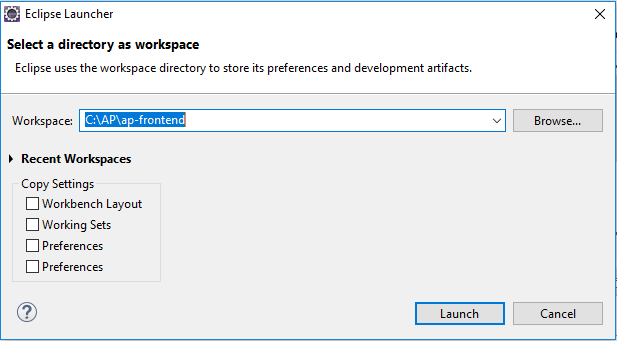
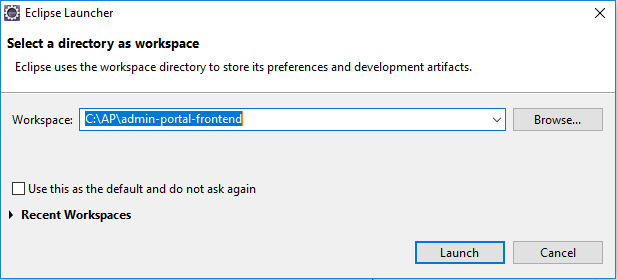
Final Changes

Changed region(s): [[0.0, 0.0, 1.0, 1.0], [0.0, 0.5143, 0.4311, 0.8], [0.0308, 0.8857, 0.0616, 0.9429]]

diff --git a/README.md b/README.md
@@ -4,7 +4,7 @@ This document has a step by step approach for setting up the required software a
 
 **2.	Installing sotware and configuring environment variable**
 
-*2.1.	Installing NodeJS and NPM* (Same steps as ap-backend)
+*2.1.	Installing NodeJS and NPM* (Same steps as admin-portal-backend)
 
 Install nodejs and npm from
 
@@ -31,21 +31,21 @@ Choose a mirror close to you and download from there and install it.
 	eclipse-inst-win64.exe
 
 
-*3.1.2.	Pulling Projects from GITHUB* (Very similar steps as ap-backend except the last one)
+*3.1.2.	Pulling Projects from GITHUB* (Very similar steps as admin-portal-backend except the last one)
 
 To get the Kite Administrator Portal front end project
 
-1.	Start Eclipse and create a workspace file in your preferred local directory (ex. C:\AP\ap-frontend) ![Front End Eclipse Workspace Screenshot](/README/FrontEndEclipseWorkspace.png)
+1.	Start Eclipse and create a workspace file in your preferred local directory (ex. C:\AP\admin-portal-frontend) ![Front End Eclipse Workspace Screenshot](/README/FrontEndEclipseWorkspace.png)
 1.	 Open the Git perspective.
 From Eclipse open Window -> Perspective -> Open Perspective -> Other.. -> Git
 1.	In the Git - Select Repositories source.
 Click on "Clone a Git Repository" 
 1.	Select Clone URI for import from Github.
-1.	In the Source Git Repository, copy paste URI https://github.com/kiteaai/ap-frontend .
+1.	In the Source Git Repository, copy paste URI https://github.com/kiteaai/admin-portal-frontend .
 1.	Provide your Github user and password if it is not there by default and click Next 
 1.	Once the project branch appears in the Git Repositories window, choose the required branch (ex. development) and click next.  ![Front End Clone Location Screenshot](/README/FrontEndCloneLocation.png)
-1.	Provide a local Destination directory for checkout (ex. C:\AP\ap-frontend-source) and click Finish 
-1.	Open a command prompt window and navigate to  the source directory (ex. C:\AP\ap-frontend-source)
+1.	Provide a local Destination directory for checkout (ex. C:\AP\admin-portal-frontend-source) and click Finish 
+1.	Open a command prompt window and navigate to  the source directory (ex. C:\AP\admin-portal-frontend-source)
 1.	Execute the following commands to install
 
 npm install --global react-scripts 
@@ -74,16 +74,16 @@ Download and Install Git from
 
 *3.2.4.    Pulling Projects from GITHUB* 
 
-To get the Content Builder front end project
+To get the Kite Administrator Portal front end project
 
 1.	Open VSCode.
 1.	Open the Git perspective. From VSCode open View-> SCM 
 1.	In the Git - Click on Clone Repository.
 ![Front End VSCode Workspace Screenshot](/README/VSCodeClone.png)
-1.	In the Provide Git Repository URI , copy paste URI https://github.com/kiteaai/ap-frontend.
+1.	In the Provide Git Repository URI , copy paste URI https://github.com/kiteaai/admin-portal-frontend.
 1.	Provide your Github user and password if it is not there by default and click Enter.
 1.	If the Authorize GitHub for VSCode appears in the Browser Click Authorize github and confirm password.
-1.	Provide a local Destination directory for checkout (ex. C:\AP\ap-frontend) and click Finish.
+1.	Provide a local Destination directory for checkout (ex. C:\AP\admin-portal-frontend) and click Finish.
 1.	Open Cloned Repository by clicking Open in button in dialog box.
 ![Front End VSCode Cloned Repository Screenshot](/README/VSCodeOpenClonedRepository.png)
 1.	To Switch the required branch (ex. development) click the bottom-left corner existing branch name and select from the drop down.
@@ -99,18 +99,18 @@ To get the Content Builder front end project
 
 **4.	Running the projects**
 
-**4.1. Starting the ap-frontend project from Eclipse.**
+**4.1. Starting the admin-portal-frontend project from Eclipse.**
 
-1.	Open a command prompt and navigate to the ap-frontend directory (ex. C:\AP\ap-frontend-source).
+1.	Open a command prompt and navigate to the ap-frontend directory (ex. C:\AP\admin-portal-frontend-source).
 1.	 Run the command:
 npm start
 1.	When npm start completes, your default browser should open to [AP Front End](http://localhost:3000) displaying the home page of Kite Administrator Portal.
 1.	Click the Health Check link.
 1.	Server is DOWN is displayed. ![Server Down Screenshot](/README/ServerDown.png)
-1.	See ap-backend project for bringing up backend server.
+1.	See admin-portal-backend project for bringing up backend server.
 1.	Once the backend project is up, the health check should show it is up.  ![Server Down Screenshot](/README/ServerUp.png)
 
-**4.2. Starting the ap-frontend project from VSCode.**
+**4.2. Starting the admin-portal-frontend project from VSCode.**
 
 1.	From VSCode open Terminal -> New Terminal.
 1.	 Run the command:
@@ -121,7 +121,7 @@ npm start
 1.	See ap-backend project for bringing up backend server.
 1.	Once the backend project is up, the health check should show it is up.  ![Server Down Screenshot](/README/ServerUp.png)
 
-**5.	What to do if you encounter problems** (Same steps as ap-backend)
+**5.	What to do if you encounter problems** (Same steps as admin-portal-backend)
 1.	XMLHttpRequest CORS policy 
 If this message occurs when trying to communicate to backend on local computer "XMLHttpRequest CORS policy: No 'Access-Control-Allow-Origin' header is present on the requested resource"
 Then execute npm install cors-save
